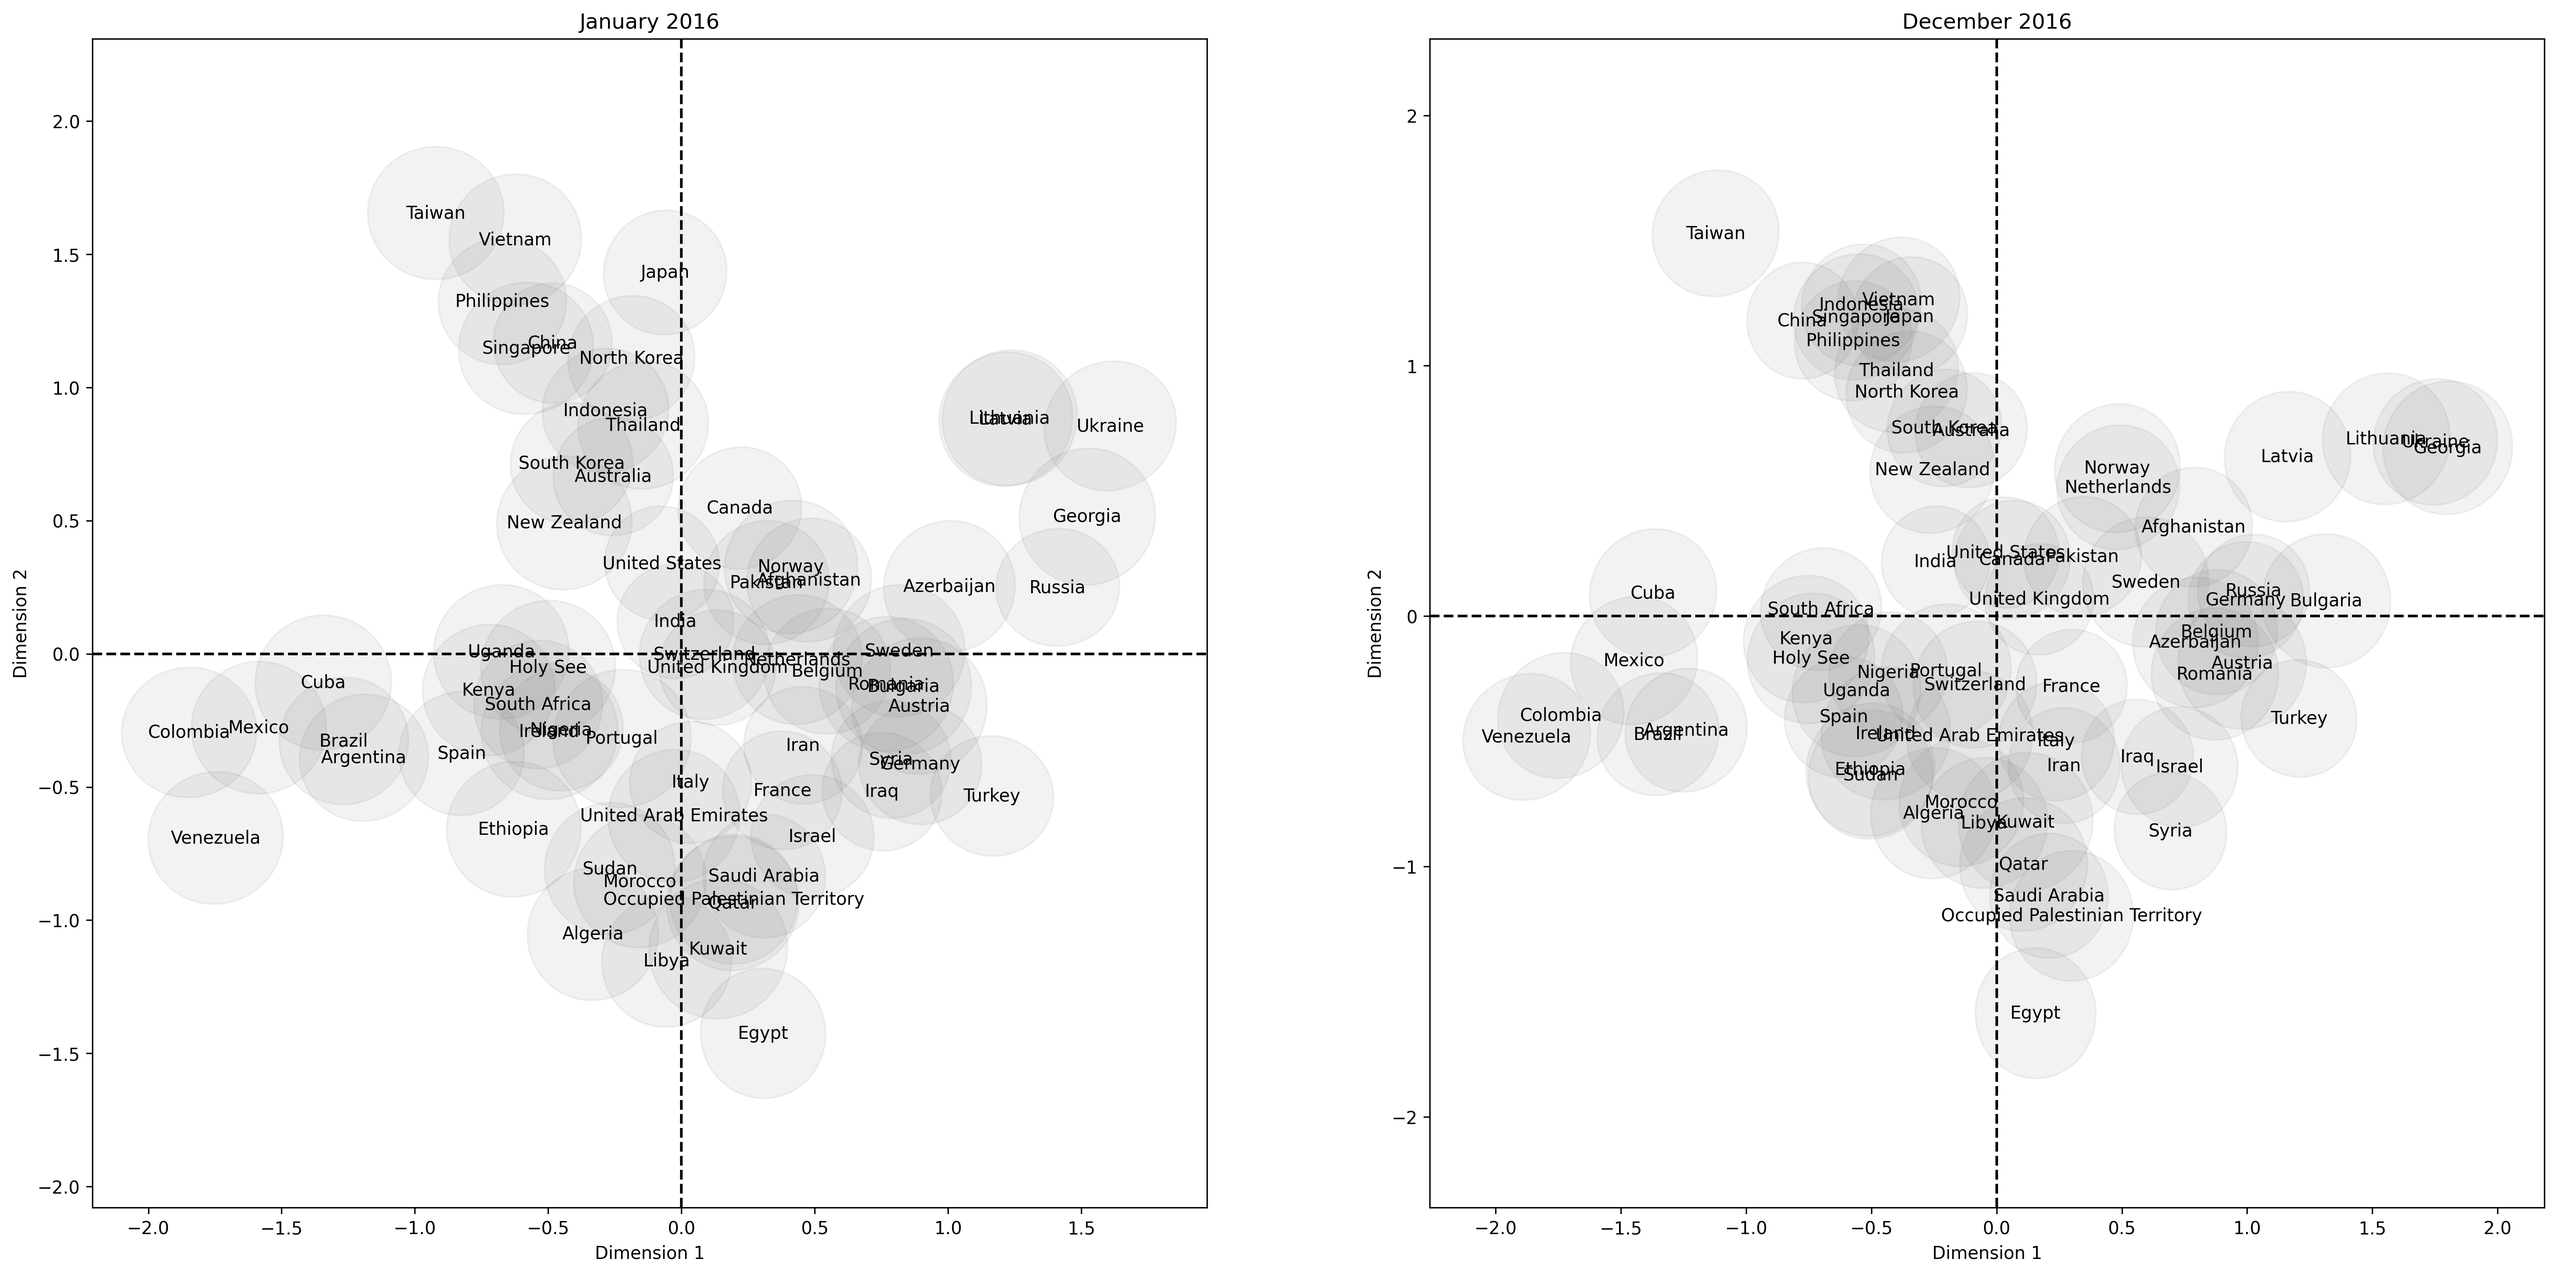
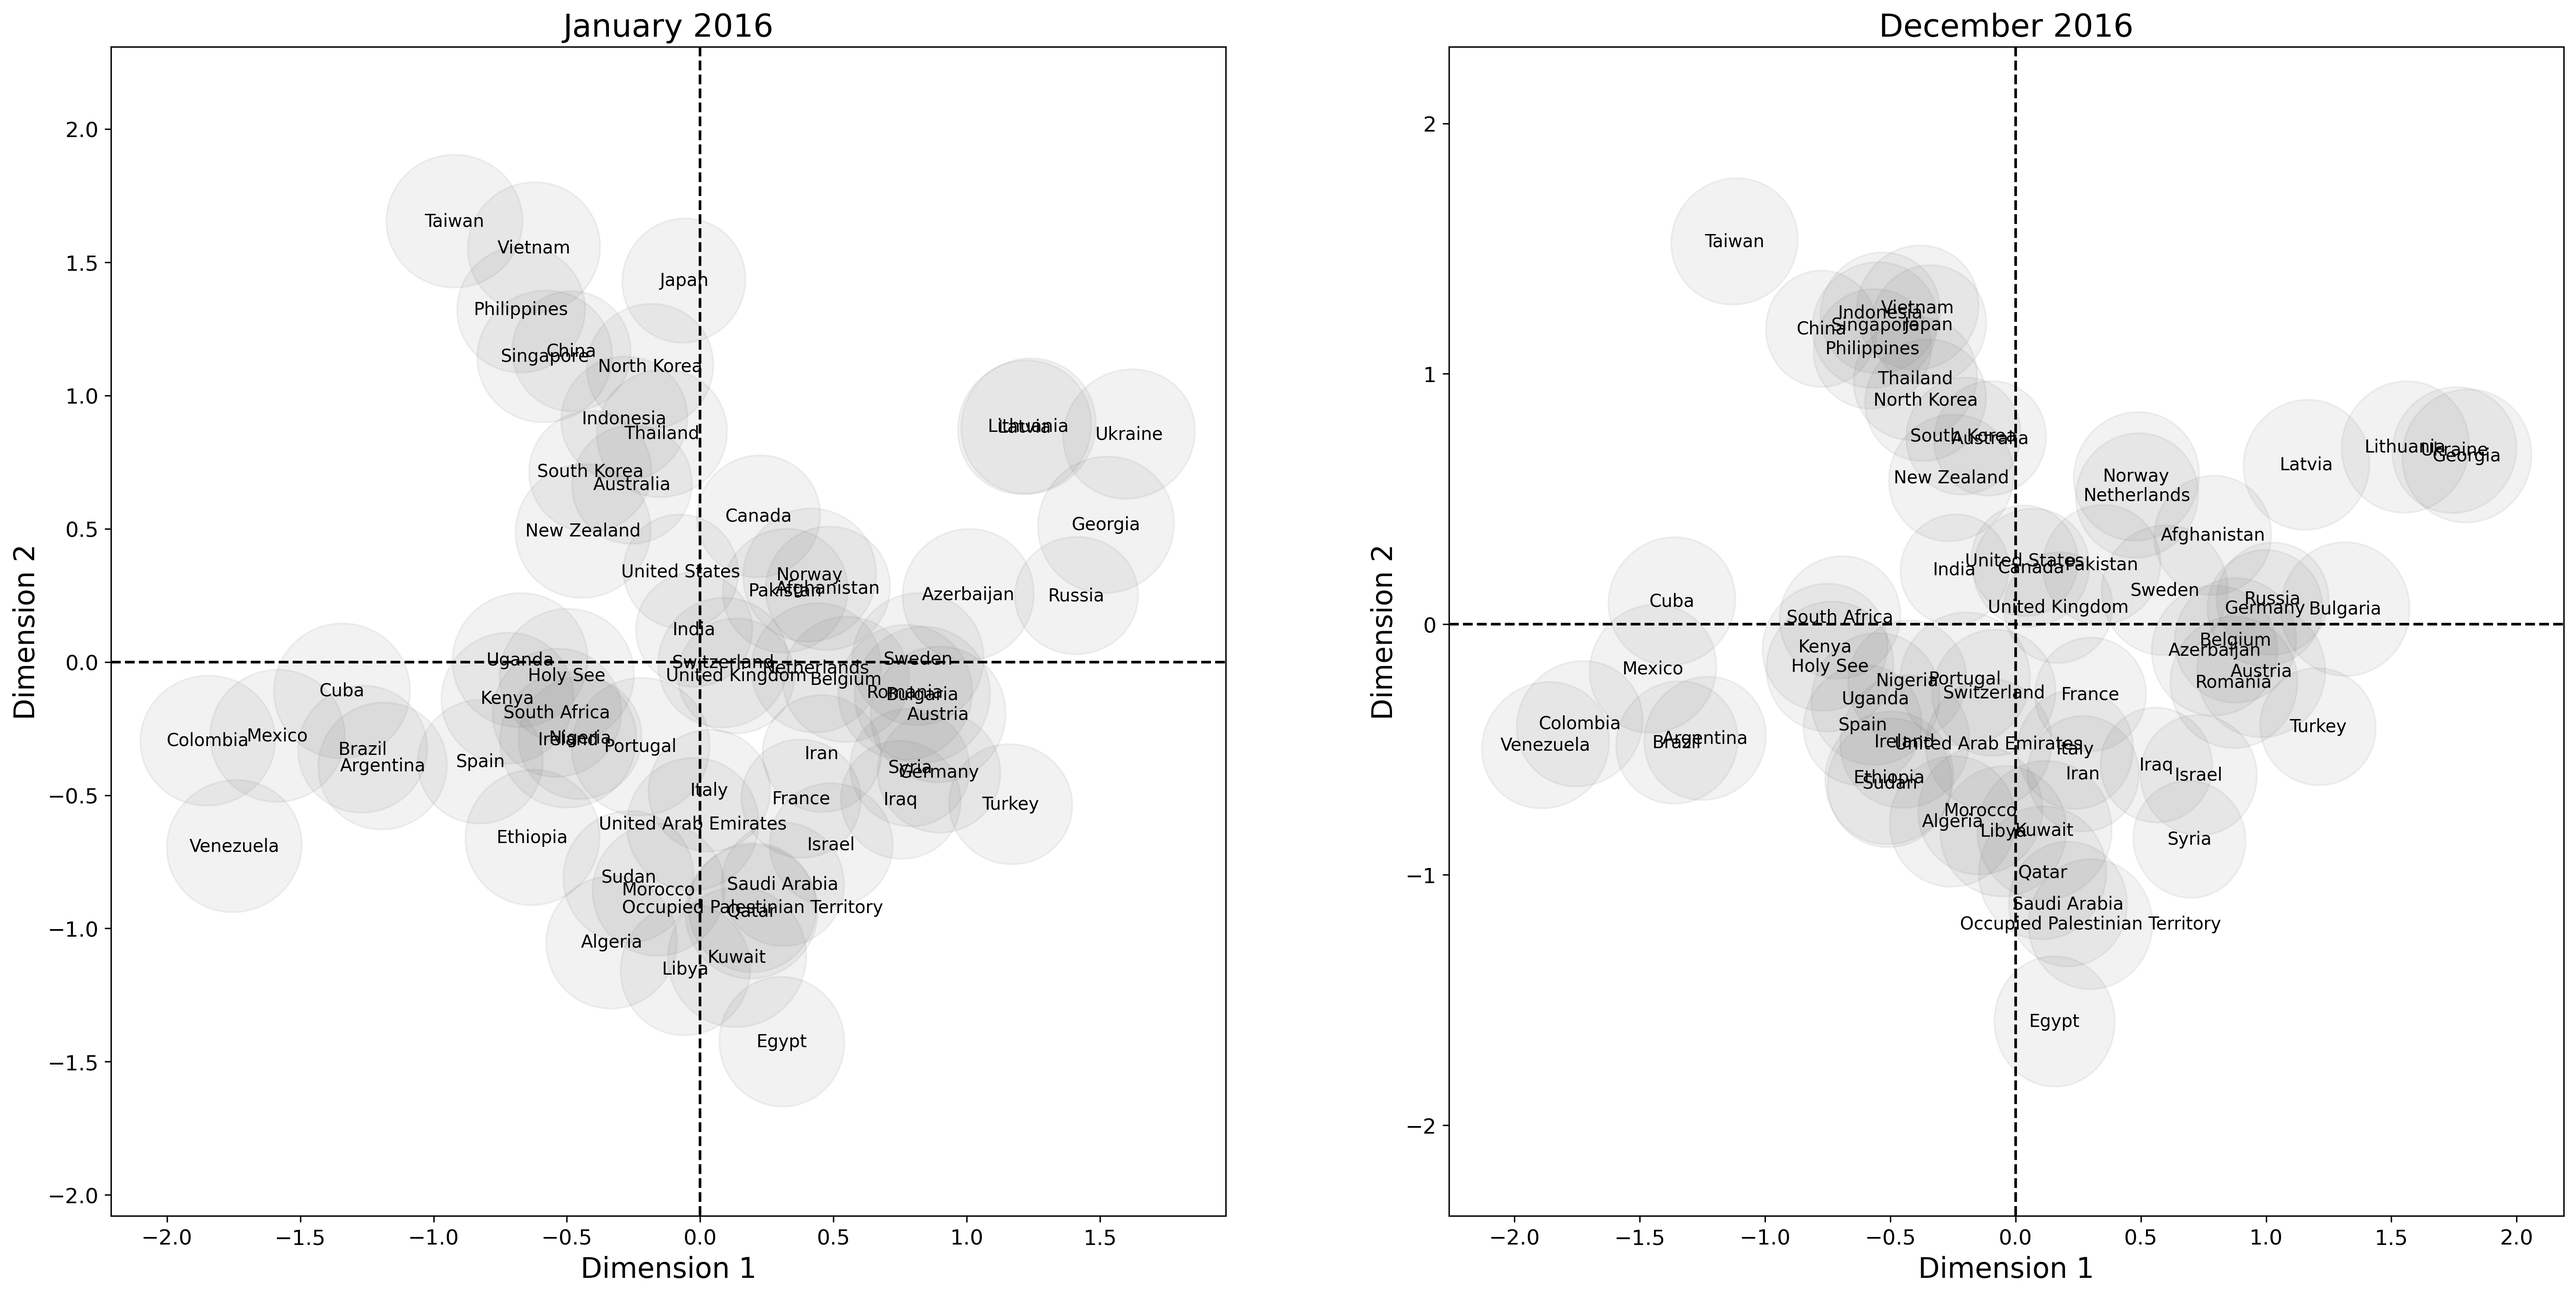
updated example image

diff --git a/examples/icews.py b/examples/icews.py
@@ -27,9 +27,10 @@ plot_latent_space(Y[k, t], model.Z_[t], X_sigma=model.Z_sigma_[t],
                    ax=ax[0])
 ax[0].axhline(0, linestyle='--', c='k')
 ax[0].axvline(0, linestyle='--', c='k')
-ax[0].set_xlabel('Dimension 1')
-ax[0].set_ylabel('Dimension 2')
-ax[0].set_title(time_labels[t])
+ax[0].set_xlabel('Dimension 1', fontsize=16)
+ax[0].set_ylabel('Dimension 2', fontsize=16)
+ax[0].set_title(time_labels[t], fontsize=18)
+ax[0].tick_params(axis='both', which='major', labelsize=12)
 
 k = 0
 t = 11
@@ -41,8 +42,9 @@ plot_latent_space(Y[k, t], model.Z_[t], X_sigma=model.Z_sigma_[t],
                    ax=ax[1])
 ax[1].axhline(0, linestyle='--', c='k')
 ax[1].axvline(0, linestyle='--', c='k')
-ax[1].set_xlabel('Dimension 1')
-ax[1].set_ylabel('Dimension 2')
-ax[1].set_title(time_labels[t])
+ax[1].set_xlabel('Dimension 1', fontsize=16)
+ax[1].set_ylabel('Dimension 2', fontsize=16)
+ax[1].set_title(time_labels[t], fontsize=18)
+ax[1].tick_params(axis='both', which='major', labelsize=12)
 
 fig.savefig('icews_small_ls.png', dpi=300, bbox_inches='tight')
